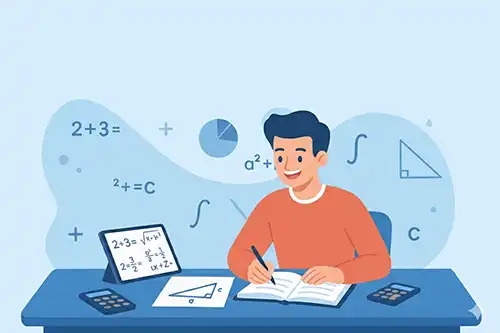
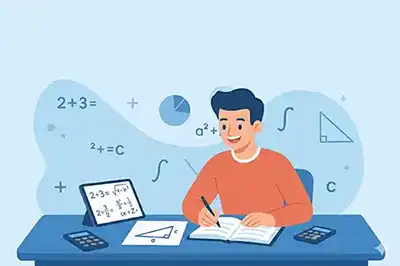
ajuste do tamanho da imagem

diff --git a/index.html b/index.html
@@ -105,6 +105,7 @@
             class="img-fluid rounded"
             alt="aula particular de matemática em goiânia"
             width="400"
+            height="266"
           />
         </div>
       </div>
@@ -130,7 +131,22 @@
                 Aulas peronalizadas
               </h3>
               <p class="card-text">
-                Cada aula é personalizada para atender as necessidadefs do aluno
+                Cada aula é personalizada para atender as necessidades do aluno,
+                com material de apoio.
+              </p>
+            </div>
+          </div>
+
+          <div
+            class="card m-3 col-12 col-md-4"
+            style="width: 18rem; border: none"
+          >
+            <div class="card-body">
+              <h3 class="card-title" style="font-size: 1.5rem">
+                Aulas presenciais
+              </h3>
+              <p class="card-text">
+                As aulas são presenciais, para otimizar o aprendizado do aluno
               </p>
             </div>
           </div>
